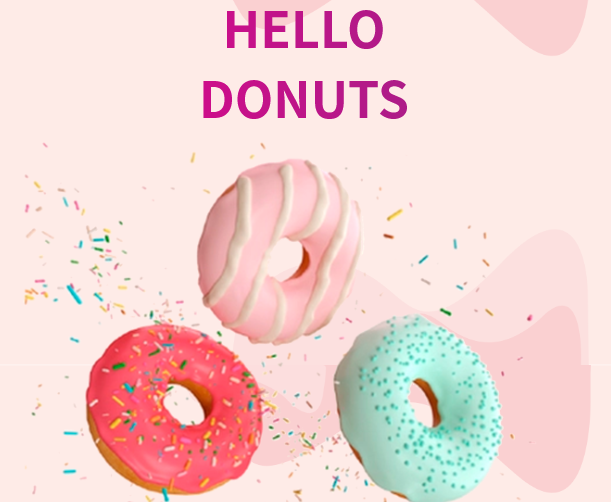
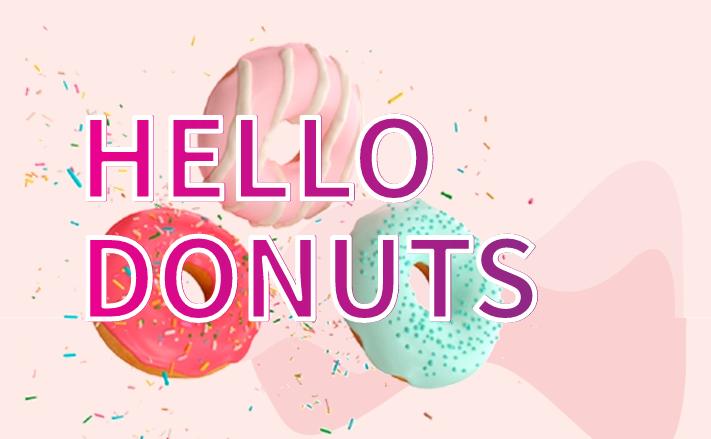
style: refactor style the header

diff --git a/css/index.css b/css/index.css
@@ -4,11 +4,28 @@
     padding: 0;
     margin: 0;
     box-sizing: border-box;
+    z-index: 1;
 }
 
 body {
-    background-image: url(../img/fundo.svg);
-    background-size: cover;
+    background-color: #feebe7;
+
+}
+
+#fundotop {
+    width: 70vw;
+    position: fixed;
+    top: 0;
+    right: 20px;
+    z-index: 0;
+}
+
+#fundobottom {
+    width: 60vw;
+    position: fixed;
+    bottom: 0;
+    right: 20px;
+    z-index: 0;
 }
 
 /*=========== CABEÇALHO ===========*/
@@ -17,27 +34,29 @@ body {
 }
 
 #header {
+    width: 100vw;
+    height: 130px;
     display: flex;
-    height: 80px;
+    /* background-color: #f21c23; */
 }
 
-#menu1 {
-    width: 40vw;
-    /* background-color: #00ffff58; */
-    display: flex;
+#header_l {
+    width: 34%;
+    height: 100%;
     text-align: center;
-    justify-content: center;
+    /* background-color: #f3f715a5; */
 }
 
-#menu1 img {
-    width: 150px;
-    height: 40px;
-    margin-top: 20px;
+#header_l img {
+    width: 180px;
+    height: 45px;
+    margin-top: 30px;
 }
 
-#menu2 {
-    width: 60vw;
-    /* background-color: #03cd1758; */
+#header_r {
+    width: 66%;
+    height: 100%;
+    /* background-color: #2ff715a5; */
 }
 
 #navbar,
@@ -45,28 +64,24 @@ body {
     height: 100%;
     width: 100%;
     display: flex;
-    justify-content: space-around;
+    justify-content: center;
 }
 
-#menu2 li,
-#menu2 a {
+#header_r li {
     list-style: none;
-    text-decoration: none;
-    display: inline-block;
+    align-self: center;
+}
+
+#header_r a {
     font-family: 'Pathway Gothic One', sans-serif;
-}
-
-#menu2 a {
-    height: 80px;
-    width: 100%;
-    display: flex;
-    align-items: center;
+    text-decoration: none;
     color: #92255C;
-    font-size: 25px;
+    font-size: 23px;
     font-weight: 900;
+    margin: 0 11px;
 }
 
-#menu2 a:hover {
+#header_r a:hover {
     text-decoration: underline;
 }
 
@@ -74,8 +89,7 @@ body {
 
 #hello {
     font-family: 'Noto Sans JP', sans-serif;
-    font-size: 110px;
-    /* font-size: 10vw; */
+    font-size: 100px;
     display: inline-block;
     line-height: 120px;
     background-image: linear-gradient(to left, #8d2985, #ed008d);
@@ -96,7 +110,7 @@ body {
 /*=========== RODAPÉ ===========*/
 
 #footer {
-    width: 450px;
+    width: 410px;
     display: flex;
     justify-content: space-between;
     position: fixed;
@@ -115,7 +129,7 @@ body {
     font-weight: 900;
     font-family: arial, sans-serif;
     padding: 10px 20px;
-    letter-spacing: 3px;
+    letter-spacing: 1px;
 }
 
 #btn2 {
@@ -198,13 +212,17 @@ body {
 }
 
 @media (max-width: 550px) {
+    #fundotop{
+        visibility: hidden;
+    }
+
     #header {
         background-color: #ffd9da;
         height: 50px;
         box-shadow: #50505080 0 2px 10px;
     }
 
-    #menu1 img {
+    #header_l img {
         width: 100px;
         height: 25px;
         margin-top: 12px;
@@ -212,7 +230,7 @@ body {
         left: 15px;
     }
 
-    #menu2 {
+    #header_r {
         visibility: hidden;
     }
 
@@ -221,6 +239,7 @@ body {
         position: fixed;
         top: 10px;
         right: 10px;
+        z-index: 1;
     }
 
     #rosquinha {

diff --git a/index.html b/index.html
@@ -12,7 +12,7 @@
     <meta property="og:title" content="Donut Bar" />
     <meta property="og:url" content="https://felipeozias.github.io/paginas_exemplo/" />
     <meta property="og:description" content="Venha conhecer um pouco mais das nossas delícias!" />
-    <meta property="og:image" content="img/post_grafic.png" />
+    <meta property="og:image" content="img/post_grafic_400x200.png" />
 
     <!-- FONTE 01: Pathway Gothic One -->
     <link rel="preconnect" href="https://fonts.googleapis.com">
@@ -31,18 +31,22 @@
 
     <!-- CABEÇALHO DA PÁGINA -->
     <header id="header">
-        <div id="menu1">
+
+        <div id="header_l">
             <img src="img/logo.png" alt="Logo">
         </div>
 
-        <div id="menu2">
+        <div id="header_r">
+
             <nav id="navbar">
+
                 <ul>
                     <li><a href="#">HOME</a></li>
                     <li><a href="#">ABOUT US</a></li>
                     <li><a href="#">PRODUCTS</a></li>
                     <li><a href="#">CONTACT</a></li>
                 </ul>
+
                 <img height="30px" id="flexmenu" src="img/menu_50x50.png" alt="menu">
             </nav>
         </div>
@@ -53,6 +57,9 @@
         <img id="rosquinha" src="img/rosquinhas_600x547.png" alt="Rosquinhas">
 
         <h1 id="hello">HELLO <br> DONUTS</h1>
+
+        <img src="img/onda_top.svg" alt="funto_top" id="fundotop">
+        <img src="img/onda_bottom.svg" alt="funto_bottom" id="fundobottom">
     </main>
 
     <!-- RODAPÉ  DA PÁGINA -->
